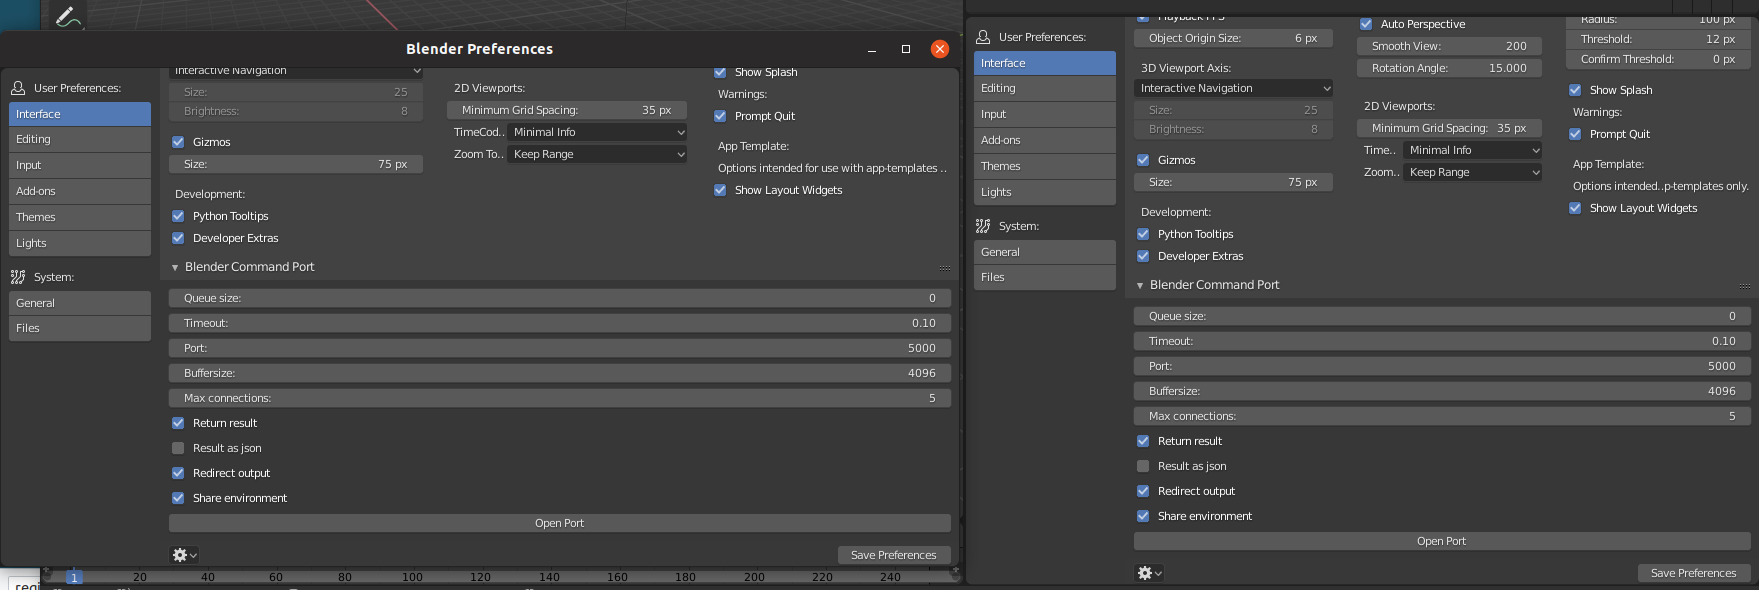
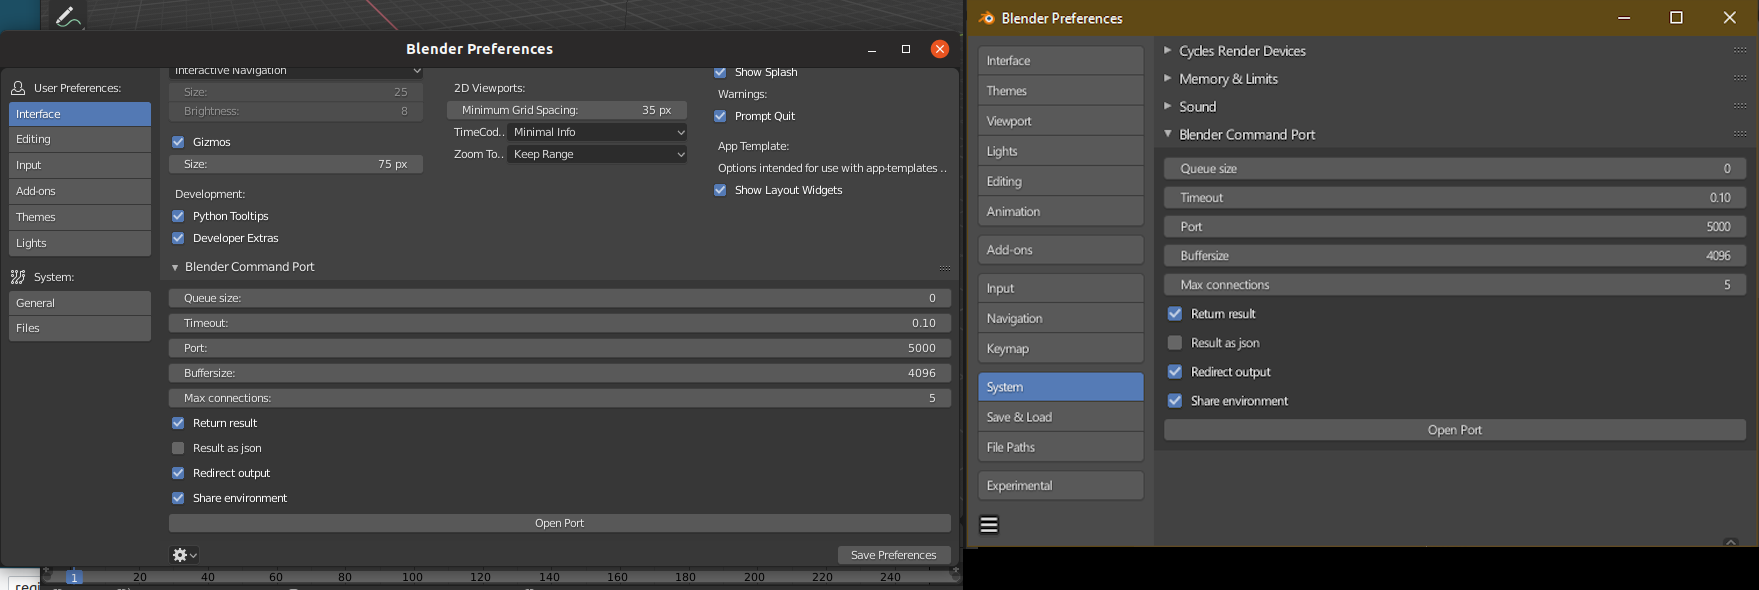
Fix for correct usage in Blender 2.8
Along with bl_space_type changing from 'USER_PREFERENCES' to 'PREFERENCES' in Blender 2.8 the bl_context of 'data' no longer exists in the preferences dialog. I changed that to 'system' so this addon's controls would show up in the 'System' section of the preferences dialog.

There was no need to detect if this code was running in Blender 2.7x or 2.8x, as the 'blender' version metadata tuple at the top of the file limits it to 2.80 at a minimum. I removed the unnecessary version check to determin e which bl_space_type to use.

Changed region(s): [[0.5219, 0.0, 1.0, 1.0], [0.9517, 0.4271, 0.9824, 0.4576], [0.7675, 0.1525, 0.7982, 0.1831]]

diff --git a/__init__.py b/__init__.py
@@ -1,8 +1,9 @@
 bl_info = {
     "name": "Blender Command Port",
     "description": "Command Port implementation for blender. "
-                   "www.github.com/p4vv37/blender_command_port",
-    "author": "Pawel Kowalski",
+                   "www.github.com/p4vv37/blender_command_port"
+                   "www.github.com/jeffhanna/blender_command_port",
+    "author": "Pawel Kowalski, Jeff Hannna",
     "version": (1, 0, 1),
     "blender": (2, 80, 0),
     "location": "User preferences > Blender Command Port",
@@ -43,15 +44,13 @@ class CloseCommandPortOperator(bpy.types.Operator):
 class BLENDERCOMMANDPORT1_PT_Panel(Panel):
     bl_label = 'Blender Command Port'
 
-    # 2.8 uses PREFERENCES, 2.7 uses USER_PREFERENCES, detect:
-    try:
-        bpy.types.SpacePreferences
-        bl_space_type = 'PREFERENCES'
-    except AttributeError:
-        bl_space_type = 'USER_PREFERENCES'
-
+    # 2.8 uses PREFERENCES and system. There is no need to attempt to context
+    # switch between Blender 2.7 and 2.8 here as the 'blender' version metadata 
+    # at the top of this file limits it to Blender 2.80 or later.
+    
+    bl_space_type = 'PREFERENCES'
+    bl_context = 'system'
     bl_region_type = 'WINDOW'
-    bl_context = 'data'
 
     def draw(self, context):
         layout = self.layout
